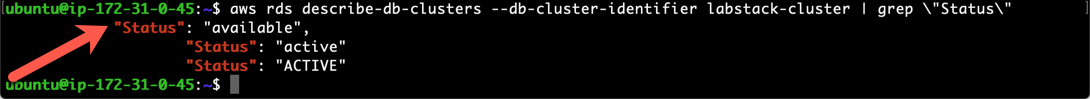
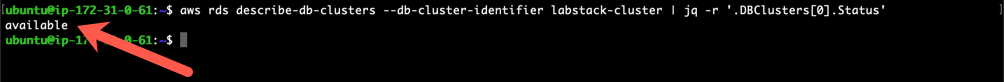
Used jq instead of grep to track status

diff --git a/docs/modules/backtrack/index.md b/docs/modules/backtrack/index.md
@@ -95,7 +95,7 @@ Parameter | Parameter Placeholder | Value<br/>DB cluster provisioned by CloudFor
 Run the below command to track the progress of the backtracking operation. The operation should complete in a few minutes.
 
 ```
-aws rds describe-db-clusters --db-cluster-identifier [clusterName] | grep \"Status\"
+aws rds describe-db-clusters --db-cluster-identifier [clusterName] | jq -r '.DBClusters[0].Status'
 ```
 
 **Command parameter values at a glance:**
@@ -129,7 +129,7 @@ aws rds backtrack-db-cluster --db-cluster-identifier [clusterName] --backtrack-t
 Track the progress of the backtracking operation, using the command below. The operation should complete in a few minutes.
 
 ```
-aws rds describe-db-clusters --db-cluster-identifier [clusterName] | grep \"Status\"
+aws rds describe-db-clusters --db-cluster-identifier [clusterName] | jq -r '.DBClusters[0].Status'
 ```
 
 Connect back to the database again. The `sbtest1` table should now be available in the database again, but contain the original data set.
